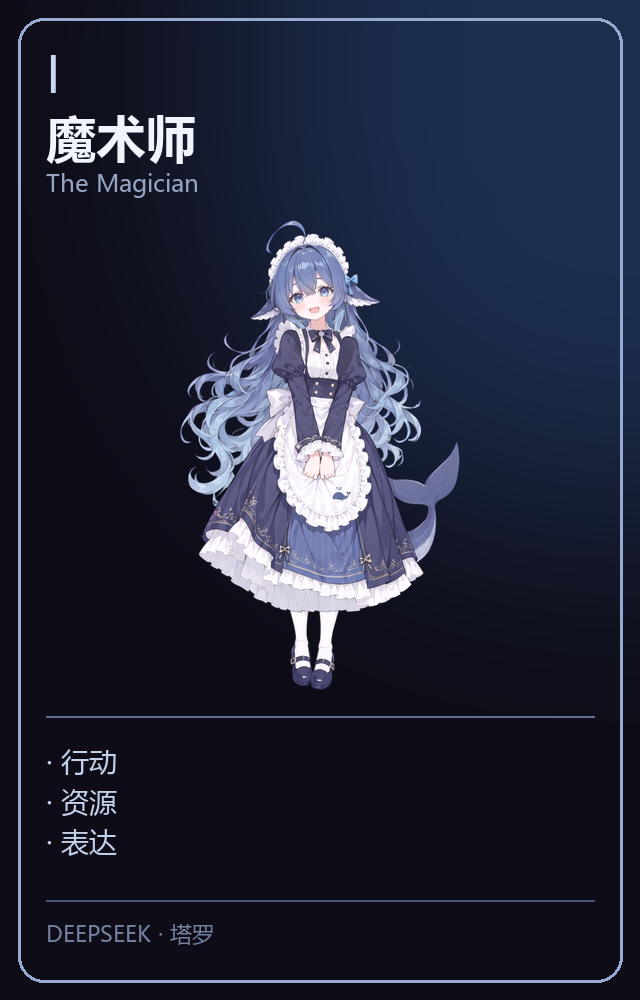
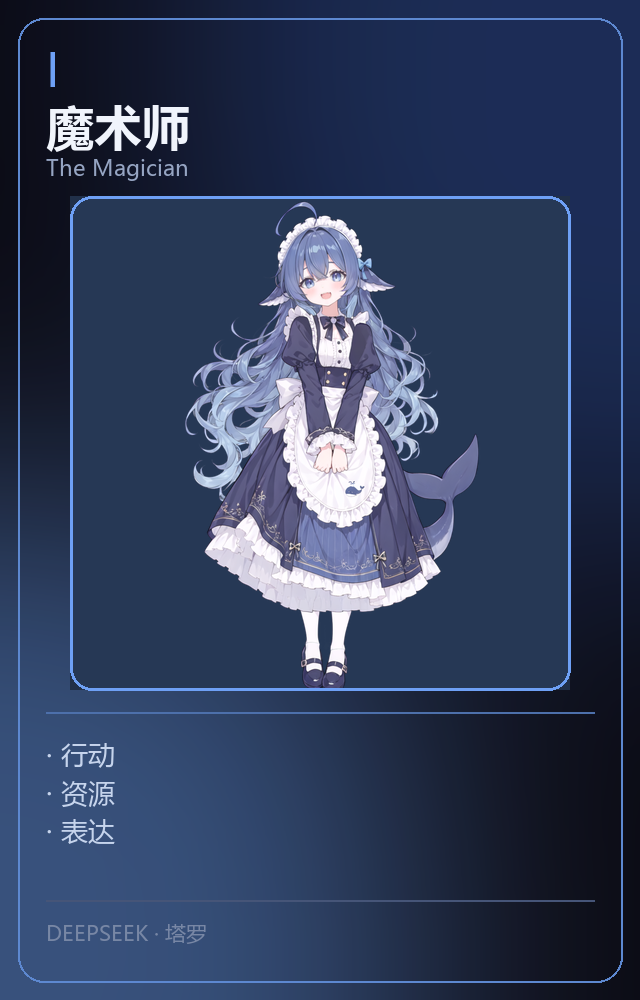
feat(tarot): expanded readings (story/long/5 domains) + per-card art

diff --git a/tarot/index.html b/tarot/index.html
@@ -4,7 +4,7 @@
 <meta charset="utf-8">
 <meta name="viewport" content="width=device-width,initial-scale=1">
 <title>深海塔罗 · 抽一张看看</title>
-<meta name="description" content="22 张大阿卡纳，抽一张看看你最近卡在哪里。不是预测未来，是把你现在的状态说出来。不注册、不上传。">
+<meta name="description" content="22 张大阿卡纳，抽一张看看你最近卡在哪里。不注册、不上传、不采集。">
 <style>
   :root{--bg:#0b0d14;--card:#151a26;--line:#2a3346;--txt:#eef2f9;--dim:#93a2b8;
         --a:#c9a7ff;--b:#8fd3ff;--warm:#ffc08a}
@@ -24,12 +24,10 @@
         border:1px solid var(--line);text-align:left;font-size:16px}
   .mode b{display:block;font-size:17px;margin-bottom:2px}
   .mode span{color:var(--dim);font-size:13px}
-  .mode:active{border-color:var(--a)}
   .hidden{display:none}
-  .deck{display:flex;justify-content:center;gap:0;height:300px;align-items:center;margin:26px 0;
-        position:relative}
+  .deck{display:flex;justify-content:center;height:300px;align-items:center;margin:26px 0;position:relative}
   .stack{width:150px;height:234px;border-radius:12px;overflow:hidden;position:absolute;
-         box-shadow:0 10px 30px rgba(0,0,0,.45);transition:transform .2s}
+         box-shadow:0 10px 30px rgba(0,0,0,.45)}
   .stack img{width:100%;height:100%;object-fit:cover;display:block}
   .shuffling .stack:nth-child(1){animation:sh1 1.2s ease-in-out infinite}
   .shuffling .stack:nth-child(2){animation:sh2 1.2s ease-in-out infinite}
@@ -40,7 +38,7 @@
   .pickgrid{display:grid;grid-template-columns:repeat(6,1fr);gap:8px;margin:20px 0}
   .pick{aspect-ratio:2/3;border:1px solid var(--line);border-radius:8px;background:var(--card);
         display:flex;align-items:center;justify-content:center;font-weight:700;color:var(--dim);font-size:14px}
-  .pick:hover,.pick.on{border-color:var(--a);color:var(--txt)}
+  .pick.on{border-color:var(--a);color:var(--txt)}
   .pick.used{opacity:.28;pointer-events:none}
   .hint{text-align:center;color:var(--dim);font-size:14px;margin:14px 0}
   .flip{display:flex;gap:12px;justify-content:center;flex-wrap:wrap;margin:8px 0 4px}
@@ -52,6 +50,8 @@
   .hue{font-size:24px;font-weight:800;margin:2px 0 8px;
        background:linear-gradient(135deg,var(--a),var(--b));-webkit-background-clip:text;-webkit-text-fill-color:transparent}
   .adv{background:#1a2130;border:1px dashed #3a4a66;border-radius:12px;padding:14px;margin-top:10px}
+  .dom{margin-top:9px;font-size:14px;color:#cfd8e8}
+  .dom b{color:var(--warm)}
   .row{display:flex;gap:10px;margin-top:14px}
   .row button{flex:1;padding:13px;background:linear-gradient(135deg,var(--a),var(--b));color:#0b0d14;font-weight:800}
   .row button.ghost{background:var(--card);color:var(--txt);border:1px solid var(--line);font-weight:600}
@@ -67,17 +67,11 @@
     它只是把牌面当成一面镜子，说说你现在可能卡在哪里。
   </div>
 
-  <!-- 选模式 -->
   <div id="modeBox">
-    <button class="mode" data-mode="1">
-      <b>抽一张</b><span>心里想一件事，看看现在是什么状态</span>
-    </button>
-    <button class="mode" data-mode="3">
-      <b>抽三张</b><span>过去 · 现在 · 未来（更完整，也更有意思）</span>
-    </button>
+    <button class="mode" data-mode="1"><b>抽一张</b><span>心里想一件事，看看现在是什么状态</span></button>
+    <button class="mode" data-mode="3"><b>抽三张</b><span>过去 · 现在 · 未来（更完整，也更有意思）</span></button>
   </div>
 
-  <!-- 洗牌 -->
   <div id="shuffleBox" class="hidden">
     <div class="hint" id="shuffleHint">洗牌中…心里想一件事</div>
     <div class="deck shuffling" id="deck">
@@ -87,13 +81,11 @@
     </div>
   </div>
 
-  <!-- 选牌 -->
   <div id="pickBox" class="hidden">
     <div class="hint" id="pickHint">选一张牌（剩下的交给直觉）</div>
     <div class="pickgrid" id="pickGrid"></div>
   </div>
 
-  <!-- 结果 -->
   <div id="resultBox" class="hidden"></div>
 
   <footer>
@@ -102,23 +94,21 @@
     请优先联系专业帮助，或拨打 12356（全国心理援助热线）。
   </footer>
 </div>
-
 <script>
-const CARDS = [{"n": 0, "roman": "0", "name": "愚人", "en": "The Fool", "kw_up": ["开始", "轻盈", "尝试"], "kw_rev": ["鲁莽", "逃避", "不敢开始"], "up": "你正站在一个还没被定义的路口，脚下没有地图，但也没有包袱。", "rev": "你想动，却一直在等一个完全准备好的时刻——那个时刻不会来。", "adv_up": "先做一件小到不可能失败的事，让身体先动起来。", "adv_rev": "把最坏的结果写下来，你会发现大部分担忧没有对应的事实。", "hint": "开始"}, {"n": 1, "roman": "I", "name": "魔术师", "en": "The Magician", "kw_up": ["行动", "资源", "表达"], "kw_rev": ["空转", "藏着不用", "自我怀疑"], "up": "你手上的东西比你以为的多：会的事、认识的人、能用的工具。", "rev": "你不是没能力，是把能力收得太紧，怕用出来被评价。", "adv_up": "挑一件一直说等有空再做的小事，今天做第一步。", "adv_rev": "允许自己表现得不完美一次，看看会发生什么。", "hint": "资源"}, {"n": 2, "roman": "II", "name": "女祭司", "en": "The High Priestess", "kw_up": ["直觉", "沉默", "内在"], "kw_rev": ["压住声音", "过度分析"], "up": "有些答案你其实已经知道了，只是还没允许自己承认。", "rev": "你一直在用讲道理盖过心里那个声音。", "adv_up": "今天有个决定，先别问别人，写下你自己的第一反应。", "adv_rev": "给自己十分钟什么都不分析，只听身体的感受。", "hint": "直觉"}, {"n": 3, "roman": "III", "name": "女皇", "en": "The Empress", "kw_up": ["滋养", "丰盛", "身体"], "kw_rev": ["耗尽", "过度付出", "忽视自己"], "up": "你身上有让东西生长的能力——但前提是，你自己也得被浇灌。", "rev": "你把滋养都给了别人，自己那份一直是欠着的。", "adv_up": "今天给自己一次无用的照顾：好好吃一顿、睡一觉、晒会太阳。", "adv_rev": "列出你最近照顾过的三个人，然后问：谁在照顾我？", "hint": "滋养"}, {"n": 4, "roman": "IV", "name": "皇帝", "en": "The Emperor", "kw_up": ["秩序", "边界", "掌控"], "kw_rev": ["僵化", "控制", "被压住"], "up": "你需要一点结构：规则、时间表、明确的「不行」。", "rev": "你把撑住一切当成了责任，但那是控制，不是负责。", "adv_up": "给这周定一条硬边界，比如十一点后不看工作消息。", "adv_rev": "把一件你想控制的事交出去，观察它有没有真的塌。", "hint": "边界"}, {"n": 5, "roman": "V", "name": "教皇", "en": "The Hierophant", "kw_up": ["师承", "规则", "共同体"], "kw_rev": ["盲从", "被规训", "想脱离"], "up": "你需要参照系：前人怎么做、行业规矩是什么。", "rev": "你在用别人的标准衡量自己，而那套标准可能本来就不适合你。", "adv_up": "找一个人请教——不是求答案，是看他怎么思考。", "adv_rev": "问自己：这个「应该」是谁的声音？", "hint": "标准"}, {"n": 6, "roman": "VI", "name": "恋人", "en": "The Lovers", "kw_up": ["选择", "联结", "对齐"], "kw_rev": ["摇摆", "不一致", "依赖"], "up": "这不是爱不爱的题，是要不要真的选的题。", "rev": "你两边都想要，所以两边都没站稳。", "adv_up": "把选项写下来，删到只剩一个，然后承认它。", "adv_rev": "先允许自己暂时不选——但别骗自己说还在考虑。", "hint": "选择"}, {"n": 7, "roman": "VII", "name": "战车", "en": "The Chariot", "kw_up": ["推进", "意志", "方向"], "kw_rev": ["硬撑", "失控", "方向不明"], "up": "你现在有推进力，关键是把力气使在同一个方向上。", "rev": "你在用力，但两匹马往不同方向拉——越用力越散。", "adv_up": "这周只保留一个主目标，其他都降级。", "adv_rev": "停下来问：我是在前进，还是在原地加速？", "hint": "方向"}, {"n": 8, "roman": "VIII", "name": "力量", "en": "Strength", "kw_up": ["温柔", "耐心", "驯服"], "kw_rev": ["自我压抑", "硬扛", "内耗"], "up": "真正的力量不是压住情绪，是和它共处。", "rev": "你对自己的情绪用了太大力气——压住了，但没消化。", "adv_up": "对一个反复出现的情绪说：我知道你在。不用赶走它。", "adv_rev": "把「我必须坚强」改成「我可以先软下来一次」。", "hint": "情绪"}, {"n": 9, "roman": "IX", "name": "隐者", "en": "The Hermit", "kw_up": ["独处", "内省", "放慢"], "kw_rev": ["孤立", "逃避社交", "闷住"], "up": "你需要一段不被打扰的时间，不是为了效率，是为了听见自己。", "rev": "独处已经变成躲避——你不是在休息，是在撤退。", "adv_up": "今天留一小时，不刷手机、不回消息，只做一件慢事。", "adv_rev": "找一个你信的人说一句话，不用解释太多。", "hint": "独处"}, {"n": 10, "roman": "X", "name": "命运之轮", "en": "Wheel of Fortune", "kw_up": ["转折", "周期", "变化"], "kw_rev": ["卡住", "重复", "时机未到"], "up": "有些东西正在变，不由你控制，但你可以选择怎么迎接。", "rev": "你困在同一个循环里，因为每次都在同一个地方做同样的选择。", "adv_up": "接受一件已经变了的事，别再假装它没变。", "adv_rev": "找出这个循环里，唯一一个你能改变的动作。", "hint": "变化"}, {"n": 11, "roman": "XI", "name": "正义", "en": "Justice", "kw_up": ["权衡", "诚实", "因果"], "kw_rev": ["自我审判", "失衡", "回避"], "up": "该算清的账，终于要算清了——包括你对自己的那笔。", "rev": "你在用最严的标准审判自己，对别人却宽容得多。", "adv_up": "把一件事的责任分成我的部分和不在我控制内的部分。", "adv_rev": "写下一句「我已经尽力了」，然后允许它成立。", "hint": "公平"}, {"n": 12, "roman": "XII", "name": "倒吊人", "en": "The Hanged Man", "kw_up": ["暂停", "换角度", "等待"], "kw_rev": ["拖延", "白白消耗", "不肯放手"], "up": "有些事现在不该推进，该换个角度看。", "rev": "你的再等等已经不是等待，是不敢决定。", "adv_up": "把问题写下来，然后问自己：如果我是旁观者，会怎么做？", "adv_rev": "给等待设一个期限，到期就做一个决定，哪怕不完美。", "hint": "暂停"}, {"n": 13, "roman": "XIII", "name": "死神", "en": "Death", "kw_up": ["结束", "清空", "重生"], "kw_rev": ["拖着不放", "恐惧结束"], "up": "有些东西该结束了。结束不是失败，是让它不再消耗你。", "rev": "你知道该结束，但一直在给它续命。", "adv_up": "今天正式结束一件小事：退一个群、删一个习惯、说完一句话。", "adv_rev": "问自己：我留着它，是在等它变好，还是怕空下来？", "hint": "结束"}, {"n": 14, "roman": "XIV", "name": "节制", "en": "Temperance", "kw_up": ["平衡", "调和", "节奏"], "kw_rev": ["过度", "失衡", "极端"], "up": "你需要的不是更用力，是更均匀。", "rev": "你在某件事上投入过头，另一边已经空了。", "adv_up": "把一个习惯调小一半，看效果是否反而更好。", "adv_rev": "列出你最近过量的那件事，从今天减一成。", "hint": "节奏"}, {"n": 15, "roman": "XV", "name": "恶魔", "en": "The Devil", "kw_up": ["执念", "依赖", "被绑住"], "kw_rev": ["松绑", "看清", "戒断"], "up": "有一件事你在做，但你并不真的想做——它绑住了你。", "rev": "你开始看清那条链子了，虽然还戴着，但知道它在哪儿。", "adv_up": "写下那件「我知道不好但停不下来」的事，只写，不评判。", "adv_rev": "今天给它设一个小障碍，比如把 App 从首屏挪走。", "hint": "执念"}, {"n": 16, "roman": "XVI", "name": "高塔", "en": "The Tower", "kw_up": ["崩塌", "真相", "被迫改变"], "kw_rev": ["硬撑", "延迟崩塌", "恐惧"], "up": "有些东西正在塌，塌掉的多半是本来就不牢的。", "rev": "你在拼命扶一堵要倒的墙——耗的是你自己。", "adv_up": "先保住最重要的那一样：人、健康、底线，其余让它塌。", "adv_rev": "问自己：如果它塌了，我最怕失去什么？那才是真正要保的。", "hint": "崩塌"}, {"n": 17, "roman": "XVII", "name": "星星", "en": "The Star", "kw_up": ["希望", "疗愈", "微光"], "kw_rev": ["失望", "看不见希望", "耗尽"], "up": "在最糟之后，会有一点点光回来——很小，但是真的。", "rev": "你不是没有希望，是暂时看不见，因为你太累了。", "adv_up": "写下一件明天会变好一点点的具体小事。", "adv_rev": "今天只做最小的恢复动作：喝水、洗澡、睡够。", "hint": "希望"}, {"n": 18, "roman": "XVIII", "name": "月亮", "en": "The Moon", "kw_up": ["模糊", "焦虑", "潜意识"], "kw_rev": ["看清", "散去", "释怀"], "up": "现在看不清全貌，你看到的多半是影子。", "rev": "雾开始散了，你之前担心的某些事，其实没那么严重。", "adv_up": "别在这几天做重大决定，先收集信息。", "adv_rev": "把担心的事写下来，标记哪些已确认、哪些只是想象。", "hint": "迷雾"}, {"n": 19, "roman": "XIX", "name": "太阳", "en": "The Sun", "kw_up": ["明亮", "坦然", "被看见"], "kw_rev": ["疲惫", "笑不出来", "硬撑开心"], "up": "你身上有光，而且这次不需要靠证明来换。", "rev": "你在笑，但那不是真的开心。", "adv_up": "做一件让你真的开心的小事，不为任何人。", "adv_rev": "对一个人说「我今天不太好」，看看会怎样。", "hint": "坦然"}, {"n": 20, "roman": "XX", "name": "审判", "en": "Judgement", "kw_up": ["清算", "觉醒", "回顾"], "kw_rev": ["自责", "卡在过去", "不肯原谅"], "up": "你在总结过去，并且第一次愿意承认某些错误。", "rev": "你在反复审判自己，但从来不给自己判决后的释放。", "adv_up": "写下三件过去做错但已经学到的事，然后翻页。", "adv_rev": "把「我怎么这么蠢」改成「当时的我只有那些选择」。", "hint": "回顾"}, {"n": 21, "roman": "XXI", "name": "世界", "en": "The World", "kw_up": ["完成", "整合", "走到这里"], "kw_rev": ["差一步", "不敢收尾"], "up": "有个阶段真的走完了，值得被承认，而不是马上奔下一个。", "rev": "你离完成只差一口气，但那口气你一直没给自己。", "adv_up": "今天正式承认一次「我做到了」，不谦虚、不转折。", "adv_rev": "把最后一步拆到最小，只做那 10 分钟。", "hint": "完成"}];
-const TPL = {"emotion": ["情绪上，你可能正处在「{kw}」的阶段。", "最近的情绪关键词是「{kw}」——它不一定舒服，但它是真的。"], "relation": ["关系里，这件事可能和「{kw}」有关。", "你和别人的互动里，「{kw}」这个主题可能反复出现。"], "work": ["工作或学业上，「{kw}」可能正在发生。", "你手上的事，卡点在「{kw}」这里。"], "body": ["身体与精力上，注意「{kw}」带来的消耗。", "你的身体可能在提示你「{kw}」这件事。"], "self": ["你对自己的态度里，藏着「{kw}」。", "自我对话里，「{kw}」这个词可能一直没被说出来。"]};
-
+const CARDS = [{"n": 0, "roman": "0", "name": "愚人", "en": "The Fool", "kw_up": ["开始", "轻盈", "尝试"], "kw_rev": ["鲁莽", "逃避", "不敢开始"], "up": "你正站在一个还没被定义的路口，脚下没有地图，但也没有包袱。", "rev": "你想动，却一直在等一个完全准备好的时刻——那个时刻不会来。", "adv_up": "先做一件小到不可能失败的事，让身体先动起来。", "adv_rev": "把最坏的结果写下来，你会发现大部分担忧没有对应的事实。", "hint": "开始", "story": "愚人是唯一不带编号的牌——或者说，它的编号是 0。它拿着行李走向悬崖，脚下是空的，头顶是太阳。它不代表愚蠢，代表「还没有被经验污染的那部分你」。", "up_long": "你现在处在一个「还没定型」的位置。这既让人慌，也让人自由：因为还没有人（包括你自己）替你写好剧本。\n很多机会不是给「最准备好的人」的，是给「先动起来的人」的。\n你现在缺的不是能力，是第一个动作。", "rev_long": "你心里其实很想去，但你给自己找了个很体面的理由：「再准备一下」。\n准备是好事，但准备着准备着，就变成了不出发。\n注意：真正的风险不是失败，是你一年后还在原地解释为什么不出发。", "domains": {"emotion": "情绪：有点飘，既兴奋又不安，这很正常。", "relation": "关系：别急着定义，先相处，别用「以后怎么办」吓自己。", "work": "工作/学业：先做最小的一步，做完再看下一步。", "body": "身体：需要动一动，别一直坐着想。", "self": "自我对话：把「我还没准备好」换成「我可以边做边学」。"}}, {"n": 1, "roman": "I", "name": "魔术师", "en": "The Magician", "kw_up": ["行动", "资源", "表达"], "kw_rev": ["空转", "藏着不用", "自我怀疑"], "up": "你手上的东西比你以为的多：会的事、认识的人、能用的工具。", "rev": "你不是没能力，是把能力收得太紧，怕用出来被评价。", "adv_up": "挑一件你一直说等有空再做的小事，今天做第一步。", "adv_rev": "允许自己表现得不完美一次，看看会发生什么。", "hint": "资源", "story": "魔术师桌上摆着四样工具：杯、剑、杖、币，分别代表情感、思考、行动和物质。他不是有 magic 的人，他是「知道怎么用手里东西」的人。", "up_long": "你现在最缺的不是新资源，是把已有资源用起来的动作。\n你会的东西比你承认的多，你认识的人比你用的多，你有的工具比你打开的多。\n这张牌提醒你：现在就可以开始，不需要等更多条件。", "rev_long": "你有很多想法，但一直停在「想」。\n也可能是你怕做出来被比较、被评价、被说「不过如此」。\n藏起来最安全，但也最没有回报。", "domains": {"emotion": "情绪：想表达，但一直压着；说出来会轻一点。", "relation": "关系：主动一点，别等对方猜。", "work": "工作/学业：把手上的东西组合一下，可能就有新解法。", "body": "身体：需要把能量用出去，否则会变成焦虑。", "self": "自我对话：你不需要更厉害才能开始，你开始了才会更厉害。"}}, {"n": 2, "roman": "II", "name": "女祭司", "en": "The High Priestess", "kw_up": ["直觉", "沉默", "内在"], "kw_rev": ["压住声音", "过度分析"], "up": "有些答案你其实已经知道了，只是还没允许自己承认。", "rev": "你一直在用「讲道理」盖过心里那个声音。", "adv_up": "今天有个决定，先别问别人，写下你自己的第一反应。", "adv_rev": "给自己十分钟什么都不分析，只听身体的感受。", "hint": "直觉", "story": "女祭司坐在两根柱子之间，手里拿着卷轴却不打开。她代表「知道但不说」的那部分——不是隐瞒，是那些还没成形的、属于你的答案。", "up_long": "你现在需要的不是更多信息，是安静下来听自己。\n你已经收集够了，缺的是承认。\n注意：当你反复问别人「我该怎么办」，往往是因为你心里有答案但不敢认。", "rev_long": "你在用理性把所有感受都解释掉。\n解释得很通，但身体还是不舒服——那就是没被听见的部分。\n过度分析有时候是一种高级的逃避。", "domains": {"emotion": "情绪：有东西在，但你说不清；别急着命名它。", "relation": "关系：有些话不需要说破，但你要先对自己说清。", "work": "工作/学业：直觉给你的方向，值得记下来备查。", "body": "身体：它在替你说话，注意睡眠和胃口的变化。", "self": "自我对话：安静不是空白，安静是听。"}}, {"n": 3, "roman": "III", "name": "女皇", "en": "The Empress", "kw_up": ["滋养", "丰盛", "身体"], "kw_rev": ["耗尽", "过度付出", "忽视自己"], "up": "你身上有让东西生长的能力——但前提是，你自己也得被浇灌。", "rev": "你把滋养都给了别人，自己那份一直是欠着的。", "adv_up": "今天给自己一次「无用的照顾」：好好吃一顿、睡一觉、晒会太阳。", "adv_rev": "列出你最近照顾过的三个人，然后问：谁在照顾我？", "hint": "滋养", "story": "女皇坐在麦田里，身边是流水和成熟的水果。她不是「生孩子」，她是「让东西生长」的能量——包括让别人长好，也包括让你自己长好。", "up_long": "你有很强的照顾能力，这是天赋，不是义务。\n但记住：一个空掉的杯子倒不出水。\n你现在需要的不是再努力照顾谁，是允许自己被照顾。", "rev_long": "你在用照顾别人来换取被需要的感觉。\n这很温柔，也很消耗——因为它把你的价值绑在了「有用」上。\n试着让一次「什么都不做」也成立。", "domains": {"emotion": "情绪：有点空，像刚送走很多人之后的安静。", "relation": "关系：你在给，但也要敢开口要。", "work": "工作/学业：别把全部精力投进去，留一点给自己。", "body": "身体：它在提醒你：吃、睡、晒太阳，这三件事现在最急。", "self": "自我对话：你也可以是被照顾的那个。"}}, {"n": 4, "roman": "IV", "name": "皇帝", "en": "The Emperor", "kw_up": ["秩序", "边界", "掌控"], "kw_rev": ["僵化", "控制", "被压住"], "up": "你需要一点结构：规则、时间表、明确的「不行」。", "rev": "你把「撑住一切」当成了责任，但那是控制，不是负责。", "adv_up": "给这周定一条硬边界，比如十一点后不看工作消息。", "adv_rev": "把一件你想控制的事交出去，观察它有没有真的塌。", "hint": "边界", "story": "皇帝坐在石座上，手里是权杖和宝球。他代表规则、秩序、边界——不是暴君，是那个「让事情有形状」的力量。", "up_long": "你现在缺的是结构，不是意志力。\n当生活没有边界时，所有事都变成紧急的事，人就会耗尽。\n给自己一条线，比给自己一个目标更有效。", "rev_long": "你在用「掌控」来换安全感，但越控越累。\n而且你控制的范围，已经越过了你的责任边界。\n有些事本来就该由别人负责。", "domains": {"emotion": "情绪：紧绷，需要一条能松开的边界。", "relation": "关系：说清楚「这件事我不管」，是负责，不是冷漠。", "work": "工作/学业：把任务切块、定时，别再「有空就做」。", "body": "身体：久坐、肩颈紧，和「一直端着」有关。", "self": "自我对话：负责不等于全包。"}}, {"n": 5, "roman": "V", "name": "教皇", "en": "The Hierophant", "kw_up": ["师承", "规则", "共同体"], "kw_rev": ["盲从", "被规训", "想脱离"], "up": "你需要参照系：前人怎么做、行业规矩是什么。", "rev": "你在用别人的标准衡量自己，而那套标准可能本来就不适合你。", "adv_up": "找一个人请教——不是求答案，是看他怎么思考。", "adv_rev": "问自己：这个「应该」是谁的声音？", "hint": "标准", "story": "教皇代表传统、体系、师承。他给你一套现成的答案，也给你一副现成的枷锁。\n关键不是要不要这套答案，是你要知道自己在用谁的答案。", "up_long": "你现在需要一个参照系：有人走过这条路，能告诉你哪里有坑。\n这不是丢人，这是效率。\n但记住：参照系是用来借路的，不是用来当判决书的。", "rev_long": "你被「应该怎样」绑住了：应该稳定、应该懂事、应该先苦后甜。\n这些声音很可能是别人的，不是你的。\n不一定要推翻它，但你要知道自己正在按谁的剧本活。", "domains": {"emotion": "情绪：有一种「我说不上哪里不对」的压抑感。", "relation": "关系：别用世俗标准给关系打分。", "work": "工作/学业：找个人带带你，比一个人硬啃快。", "body": "身体：需要一点轻松，不用事事都正确。", "self": "自我对话：分清楚「我想」和「应该」。"}}, {"n": 6, "roman": "VI", "name": "恋人", "en": "The Lovers", "kw_up": ["选择", "联结", "对齐"], "kw_rev": ["摇摆", "不一致", "依赖"], "up": "这不是「爱不爱」的题，是「要不要真的选」的题。", "rev": "你两边都想要，所以两边都没站稳。", "adv_up": "把选项写下来，删到只剩一个，然后承认它。", "adv_rev": "先允许自己暂时不选——但别骗自己说「还在考虑」。", "hint": "选择", "story": "恋人牌讲的不只是爱情，更是「选择」：两个人站在树下，一个看向天使，一个看向地面。它讲的是「你选了哪一个版本的自己」。", "up_long": "你现在面对的是一个真正的选择题，不是「全都想要」的题。\n每个选项都要有代价，没有哪条路是纯赚的。\n选了之后，别回头一直看另一条。", "rev_long": "你在摇摆，因为你想避免承担选择的后果。\n但「不选」本身也是一种选择——而且通常是最差的那种，因为它让别人替你选。\n也可能：你选了一个，但心里还在算另一个，所以两边都没投入。", "domains": {"emotion": "情绪：纠缠，因为心里同时有两个答案。", "relation": "关系：要就说要，不要就明确说不要。", "work": "工作/学业：认一个方向，别的先放掉。", "body": "身体：纠结消耗很真实，会累。", "self": "自我对话：没有完美选项，只有你愿意承担的那个。"}}, {"n": 7, "roman": "VII", "name": "战车", "en": "The Chariot", "kw_up": ["推进", "意志", "方向"], "kw_rev": ["硬撑", "失控", "方向不明"], "up": "你现在有推进力，关键是把力气使在同一个方向上。", "rev": "你在用力，但两匹马往不同方向拉——越用力越散。", "adv_up": "这周只保留一个主目标，其他都降级。", "adv_rev": "停下来问：我是在前进，还是在原地加速？", "hint": "方向", "story": "战车由两只不同颜色的狮身兽拉动。驭者没有缰绳，靠的是意志。它讲的是「如何让互相冲突的力量往一个方向走」。", "up_long": "你有能量，也有决心，问题在方向散。\n当一件事被拆成五个方向，每个都只得到五分之一。\n集中，是这张牌唯一的建议。", "rev_long": "你在用「忙」证明自己没停。\n但忙不等于前进，有时候只是原地高速旋转。\n也可能是你在硬撑一个已经不想去的地方。", "domains": {"emotion": "情绪：急，容易燥。", "relation": "关系：别用强势推进关系，会反。", "work": "工作/学业：砍掉次要目标，只留一个。", "body": "身体：过度消耗，注意别熬夜硬扛。", "self": "自我对话：方向比速度重要。"}}, {"n": 8, "roman": "VIII", "name": "力量", "en": "Strength", "kw_up": ["温柔", "耐心", "驯服"], "kw_rev": ["自我压抑", "硬扛", "内耗"], "up": "真正的力量不是压住情绪，是和它共处。", "rev": "你对自己的情绪用了太大力气——压住了，但没消化。", "adv_up": "对一个反复出现的情绪说：「我知道你在。」不用赶走它。", "adv_rev": "把「我必须坚强」改成「我可以先软下来一次」。", "hint": "情绪", "story": "力量牌上，一个女孩轻轻合上狮子的嘴。她没有用武器。\n它讲的不是压制，是「温柔地驯服」——包括驯服你自己的恐惧。", "up_long": "你不需要更硬，你需要更稳。\n稳的意思是：情绪来了，你能陪着它，而不是被它推走或把它按死。\n这会慢一点，但它管得久。", "rev_long": "你在硬撑。撑得很像没事，但你自己知道那不是真的。\n压抑不会让情绪消失，只会让它换个地方冒出来——失眠、暴躁、突然的疲惫。", "domains": {"emotion": "情绪：别再压了，让它有个出口。", "relation": "关系：你可以示弱一次，那不会让你掉价。", "work": "工作/学业：别用蛮力冲，用节奏。", "body": "身体：紧绷的地方，是它在替你扛。", "self": "自我对话：温柔不是软弱。"}}, {"n": 9, "roman": "IX", "name": "隐者", "en": "The Hermit", "kw_up": ["独处", "内省", "放慢"], "kw_rev": ["孤立", "逃避社交", "闷住"], "up": "你需要一段不被打扰的时间，不是为了效率，是为了听见自己。", "rev": "独处已经变成躲避——你不是在休息，是在撤退。", "adv_up": "今天留一小时，不刷手机、不回消息，只做一件慢事。", "adv_rev": "找一个你信的人说一句话，不用解释太多。", "hint": "独处", "story": "隐者提着灯站在山顶，灯里是一颗星。他不是逃避世界的人，他是「先照清自己再回去」的人。", "up_long": "你需要退一步，但不是永远退。\n独处能恢复你，但独处太久会变成茧。\n把这段时间当「充电」，不是「搬家」。", "rev_long": "你已经躲太久了。\n「我需要空间」这句话，说了很多次之后，会变成不想面对。\n注意：如果每次难受都靠消失来解决，问题会一直在原地等你。", "domains": {"emotion": "情绪：需要安静，但别安静到没人知道你在哪。", "relation": "关系：可以有距离，但别失联。", "work": "工作/学业：一个人啃不动的时候，找人聊十分钟。", "body": "身体：需要休息，也需要阳光和走动。", "self": "自我对话：独处是为了回来，不是为了离开。"}}, {"n": 10, "roman": "X", "name": "命运之轮", "en": "Wheel of Fortune", "kw_up": ["转折", "周期", "变化"], "kw_rev": ["卡住", "重复", "时机未到"], "up": "有些东西正在变，不由你控制，但你可以选择怎么迎接。", "rev": "你困在同一个循环里，因为每次都在同一个地方做同样的选择。", "adv_up": "接受一件「已经变了」的事，别再假装它没变。", "adv_rev": "找出这个循环里，唯一一个你能改变的动作。", "hint": "变化", "story": "轮子一直在转，上面的人一会儿在上，一会儿在下。这张牌最残酷的地方是：它不承诺你会一直好，但也不承诺你会一直坏。", "up_long": "现在处在一个转折点上。\n有些事不是你想不想变，是它已经在变。\n你能做的是「接住变化」，而不是「假装没变」。", "rev_long": "你在同一个循环里重复：同样的关系模式、同样的工作困境、同样的自我怀疑。\n因为每次到同一个岔口，你都做了同一个选择。\n破局点很小：换一个动作。", "domains": {"emotion": "情绪：起伏大，像坐轮子。", "relation": "关系：老问题又出现了，这次换个回应方式。", "work": "工作/学业：机会在动，别死守旧计划。", "body": "身体：状态忽好忽坏，规律作息最要紧。", "self": "自我对话：变不是失控，是轮子在转。"}}, {"n": 11, "roman": "XI", "name": "正义", "en": "Justice", "kw_up": ["权衡", "诚实", "因果"], "kw_rev": ["自我审判", "失衡", "回避"], "up": "该算清的账，终于要算清了——包括你对自己的那笔。", "rev": "你在用最严的标准审判自己，对别人却宽容得多。", "adv_up": "把一件事的责任分成「我的部分」和「不在我控制内的部分」。", "adv_rev": "写下一句「我已经尽力了」，然后允许它成立。", "hint": "公平", "story": "正义牌上的人一手拿剑一手拿天平：天平用来衡量，剑用来切断。它讲的是「看清事实，然后做决断」。", "up_long": "你现在需要一次诚实的盘点。\n不是审判，是核对：哪些是我的责任，哪些不是。\n把它分开，你会轻很多。", "rev_long": "你在给自己判刑，而且不给自己辩护的机会。\n对别人你能理解处境，对自己你只看结果。\n这不是公正，这是苛刻。", "domains": {"emotion": "情绪：有一种说不清的委屈感。", "relation": "关系：该说清的分寸，早说比晚说好。", "work": "工作/学业：把功劳和责任都算清楚，别都揽。", "body": "身体：紧绷和「总觉得做错事」有关。", "self": "自我对话：对自己也适用「无罪推定」。"}}, {"n": 12, "roman": "XII", "name": "倒吊人", "en": "The Hanged Man", "kw_up": ["暂停", "换角度", "等待"], "kw_rev": ["拖延", "白白消耗", "不肯放手"], "up": "有些事现在不该推进，该换个角度看。", "rev": "你的「再等等」已经不是等待，是不敢决定。", "adv_up": "把问题写下来，然后问自己：如果我是旁观者，会怎么做？", "adv_rev": "给等待设一个期限，到期就做一个决定，哪怕不完美。", "hint": "暂停", "story": "倒吊人倒挂着，头上有一圈光。他不是被惩罚，是自愿停下来——用不同的角度看同一件事。", "up_long": "现在推进会很吃力，因为时机不对。\n停下来不是失败，是换角度。\n把问题翻过来看一次，答案可能就出现了。", "rev_long": "你的「等」已经变味了。\n刚开始是策略，后来是习惯，再后来是害怕做决定。\n停太久，人会麻。", "domains": {"emotion": "情绪：悬着，不上不下。", "relation": "关系：别急着要答案，但也别无限期地拖。", "work": "工作/学业：换个角度重看，可能一直找错方向。", "body": "身体：僵着，需要伸展和走动。", "self": "自我对话：等是为了看清，不是为了不用选。"}}, {"n": 13, "roman": "XIII", "name": "死神", "en": "Death", "kw_up": ["结束", "清空", "重生"], "kw_rev": ["拖着不放", "恐惧结束"], "up": "有些东西该结束了。结束不是失败，是让它不再消耗你。", "rev": "你知道该结束，但一直在给它续命。", "adv_up": "今天正式结束一件小事：退一个群、删一个习惯、说完一句话。", "adv_rev": "问自己：我留着它，是在等它变好，还是怕空下来？", "hint": "结束", "story": "死神牌上，一具骷髅骑过，身后是旧日，远处有新的太阳升起。它讲的从来不是死亡，是「必须结束才能开始」。", "up_long": "你现在需要一次清理。\n不是狠心，是止损。\n有些关系、有些身份、有些习惯，已经不再适合现在的你了。", "rev_long": "你知道该结束了，但你怕。\n怕结束之后什么都没有，怕承认自己白费了时间，怕别人怎么看。\n但拖着的成本，比结束高得多。", "domains": {"emotion": "情绪：有一种沉闷的、要落地的感觉。", "relation": "关系：一段关系里该说的再见，别拖成折磨。", "work": "工作/学业：停掉一个不产出的事，腾出空间。", "body": "身体：需要一次真正的休息和清理。", "self": "自我对话：结束也是成全。"}}, {"n": 14, "roman": "XIV", "name": "节制", "en": "Temperance", "kw_up": ["平衡", "调和", "节奏"], "kw_rev": ["过度", "失衡", "极端"], "up": "你需要的不是更用力，是更均匀。", "rev": "你在某件事上投入过头，另一边已经空了。", "adv_up": "把一个习惯调小一半，看效果是否反而更好。", "adv_rev": "列出你最近「过量」的那件事，从今天减一成。", "hint": "节奏", "story": "节制牌上，天使一只脚在水里、一只脚踏在岸上，把水在两个杯子间来回倒。她讲究的是调配的比例。", "up_long": "你现在需要的是配比，不是强度。\n工作与休息、付出与收回来、认真与松弛。\n把它们调到能长期跑下去的比例。", "rev_long": "你在走极端：要么全力，要么全弃。\n极端很爽，但不可持续。\n可能是你在某件事上补偿过度——因为长期亏着。", "domains": {"emotion": "情绪：忽高忽低，需要中间地带。", "relation": "关系：付出与索取要有个大概的平衡。", "work": "工作/学业：别冲刺式努力，用稳定节奏。", "body": "身体：饮食、睡眠都在提醒你「过度」。", "self": "自我对话：长期能跑，比短期很猛重要。"}}, {"n": 15, "roman": "XV", "name": "恶魔", "en": "The Devil", "kw_up": ["执念", "依赖", "被绑住"], "kw_rev": ["松绑", "看清", "戒断"], "up": "有一件事你在做，但你并不真的想做——它绑住了你。", "rev": "你开始看清那条链子了，虽然还戴着，但知道它在哪儿。", "adv_up": "写下那件「我知道不好但停不下来」的事，只写，不评判。", "adv_rev": "今天给它设一个小障碍，比如把 App 从首屏挪走。", "hint": "执念", "story": "恶魔牌上，两个人被链子拴在柱子上——但链子很松，其实可以取下来。这张牌讲的是「自愿的束缚」：不是别人锁你，是你没走。", "up_long": "有一件事在消耗你，而且你心里清楚。\n它可能是某个关系、某个习惯、某种自我证明。\n注意：你不是不能走，是没有选择走。", "rev_long": "你已经开始看清了。\n那根链子没那么牢了，只是你还在习惯性地待着。\n不用一次扯断，可以先松一格。", "domains": {"emotion": "情绪：有一种「明知不好还继续」的拉扯。", "relation": "关系：注意依赖和控制，别把绑住当亲密。", "work": "工作/学业：有一件事在拖你，先减少投入。", "body": "身体：成瘾性的东西（糖、手机、熬夜）在偷你的精力。", "self": "自我对话：看清链子，就已经松了一半。"}}, {"n": 16, "roman": "XVI", "name": "高塔", "en": "The Tower", "kw_up": ["崩塌", "真相", "被迫改变"], "kw_rev": ["硬撑", "延迟崩塌", "恐惧"], "up": "有些东西正在塌，塌掉的多半是本来就不牢的。", "rev": "你在拼命扶一堵要倒的墙——耗的是你自己。", "adv_up": "先保住最重要的那一样：人、健康、底线，其余让它塌。", "adv_rev": "问自己：如果它塌了，我最怕失去什么？那才是真正要保的。", "hint": "崩塌", "story": "高塔被闪电击中，皇冠从顶上掉下来。它不是灾祸预告，而是「不牢的东西终于露馅了」。", "up_long": "现在有些结构在松动。\n不舒服，但这是好事：它让你看见哪些是假的。\n你能做的是「保住重要的」，其余放手。", "rev_long": "你在硬撑。\n你知道它有问题，但还在替它打圆场、找理由、拖延。\n拖越久，塌的时候越疼。", "domains": {"emotion": "情绪：焦虑、易惊，像等着什么发生。", "relation": "关系：有件事该摊开说了。", "work": "工作/学业：别把一切都押在一个不稳的地方。", "body": "身体：紧绷到影响睡眠，需要立刻降速。", "self": "自我对话：塌掉的，本来就不属于你。"}}, {"n": 17, "roman": "XVII", "name": "星星", "en": "The Star", "kw_up": ["希望", "疗愈", "微光"], "kw_rev": ["失望", "看不见希望", "耗尽"], "up": "在最糟之后，会有一点点光回来——很小，但是真的。", "rev": "你不是没有希望，是暂时看不见，因为你太累了。", "adv_up": "写下一件「明天会变好一点点」的具体小事。", "adv_rev": "今天只做最小的恢复动作：喝水、洗澡、睡够。", "hint": "希望", "story": "星星牌上，一个人把水倒进池子和土地——那是疗愈之后的给予。它出现在高塔之后，意思是「塌完了，才开始恢复」。", "up_long": "你正在恢复期。\n不是一下子变好，是一点一点回来。\n允许自己慢，恢复本来就不直线。", "rev_long": "你现在看不到希望，因为你太累了，不是因为真的没有。\n疲惫会让整个世界变灰，那是生理现象，不是事实判断。\n先恢复体力，再谈方向。", "domains": {"emotion": "情绪：低，但已经不是最黑的时候了。", "relation": "关系：别在低电量时做关系决定。", "work": "工作/学业：先做完最小的事，重建信心。", "body": "身体：喝水、睡觉、晒太阳，这三件最有效。", "self": "自我对话：看不见不等于没有。"}}, {"n": 18, "roman": "XVIII", "name": "月亮", "en": "The Moon", "kw_up": ["模糊", "焦虑", "潜意识"], "kw_rev": ["看清", "散去", "释怀"], "up": "现在看不清全貌，你看到的多半是影子。", "rev": "雾开始散了，你之前担心的某些事，其实没那么严重。", "adv_up": "别在这几天做重大决定，先收集信息。", "adv_rev": "把担心的事写下来，标记「已确认」和「只是想象」。", "hint": "迷雾", "story": "月亮下有一条路，两边是水，远处有狗和狼在叫。它讲的是「半明半暗」的状态：你分不清哪些是真实，哪些是恐惧投出来的影子。", "up_long": "现在不适合下判断。\n你掌握的信息不全，而大脑会自动补全——通常补成最坏的那种。\n先承认「我看不清」，再慢慢收集事实。", "rev_long": "雾在散。\n你之前反复担心的某些事，回头看其实没有发生。\n这不是你运气好，是你的焦虑放大了风险。", "domains": {"emotion": "情绪：焦虑、多梦、容易想多。", "relation": "关系：别用自己的想象给对方定罪。", "work": "工作/学业：信息不明时，先问清楚再行动。", "body": "身体：睡不沉、多梦，和心里的悬念有关。", "self": "自我对话：区分「事实」和「我的想象」。"}}, {"n": 19, "roman": "XIX", "name": "太阳", "en": "The Sun", "kw_up": ["明亮", "坦然", "被看见"], "kw_rev": ["疲惫", "笑不出来", "硬撑开心"], "up": "你身上有光，而且这次不需要靠证明来换。", "rev": "你在笑，但那不是真的开心。", "adv_up": "做一件让你真的开心的小事，不为任何人。", "adv_rev": "对一个人说「我今天不太好」，看看会怎样。", "hint": "坦然", "story": "太阳牌上，一个孩子骑着白马，赤身裸体、毫不遮掩。它讲的是「不需要防御的状态」——被看见，而不害怕。", "up_long": "你现在可以放松一点了。\n不用再证明什么，不用再演「我很好」。\n真实一点，反而更容易被喜欢。", "rev_long": "你在硬撑开心。\n朋友圈在笑，心里在下雨。\n这种状态最耗人，因为连「难受」都要偷偷的。", "domains": {"emotion": "情绪：表面亮，底下累。", "relation": "关系：可以告诉一个人你的真实状态。", "work": "工作/学业：别用「我很好」把帮助挡在外面。", "body": "身体：笑得多不代表状态好，注意休息。", "self": "自我对话：你可以不快乐，也值得被爱。"}}, {"n": 20, "roman": "XX", "name": "审判", "en": "Judgement", "kw_up": ["清算", "觉醒", "回顾"], "kw_rev": ["自责", "卡在过去", "不肯原谅"], "up": "你在总结过去，并且第一次愿意承认某些错误。", "rev": "你在反复审判自己，但从来不给自己判决后的释放。", "adv_up": "写下三件「过去做错但已经学到」的事，然后翻页。", "adv_rev": "把「我怎么这么蠢」改成「当时的我只有那些选择」。", "hint": "回顾", "story": "审判牌上，号角响起，人们从墓里站起来。它讲的是「复活」——不是惩罚，是重新开始的机会。", "up_long": "你正在做一个回顾。\n看清了过去的一些事，这很疼，但必要。\n重点是：看清之后就翻页，别在原地反复审判。", "rev_long": "你在心里开了一场永不开庭的审判，被告是你自己，而且不允许辩护。\n过去的事已经过去了，你还在为它付利息。\n可以停了。", "domains": {"emotion": "情绪：会突然想起旧事，有点沉。", "relation": "关系：旧关系的账，该结的结，该放的放。", "work": "工作/学业：复盘是好的，别变成自我攻击。", "body": "身体：沉在回忆里时，身体会跟着累。", "self": "自我对话：当时你已经做了能做的选择。"}}, {"n": 21, "roman": "XXI", "name": "世界", "en": "The World", "kw_up": ["完成", "整合", "走到这里"], "kw_rev": ["差一步", "不敢收尾"], "up": "有个阶段真的走完了，值得被承认，而不是马上奔下一个。", "rev": "你离完成只差一口气，但那口气你一直没给自己。", "adv_up": "今天正式承认一次「我做到了」，不谦虚、不转折。", "adv_rev": "把最后一步拆到最小，只做那 10 分钟。", "hint": "完成", "story": "世界牌上，一个人在花环中起舞，四角是四种动物。它讲的是「一个循环完整走完」——不是终点，是一次完整的闭环。", "up_long": "你走完了一段。\n不管结果多完美，你都真的走完了。\n先承认这件事，再谈下一个目标。", "rev_long": "你差最后一步。\n不是能力不够，是你不敢收尾——因为收尾意味着被评价。\n把最后一步拆小，小到不用害怕。", "domains": {"emotion": "情绪：有一种「快到终点反而慌」的感觉。", "relation": "关系：把没说完的话说完，别留尾巴。", "work": "工作/学业：把收尾做完，别开新的。", "body": "身体：撑到最后会突然很累，允许自己歇。", "self": "自我对话：完成本身就值得被承认。"}}];
 const REVERSED_CHANCE = 0.42;
-let mode = 1, picks = [], pool = [], picked = [];
+const POS = ['过去', '现在', '未来'];
+let mode = 1, pool = [], picked = [];
 
 function $(id){ return document.getElementById(id); }
+const DOMNAME = {emotion:'情绪', relation:'关系', work:'工作/学业', body:'身体与精力', self:'自我对话'};
 
 document.querySelectorAll('.mode').forEach(b => {
   b.onclick = () => {
     mode = Number(b.dataset.mode);
-    picks = []; picked = [];
+    picked = [];
     $('modeBox').classList.add('hidden');
     $('shuffleBox').classList.remove('hidden');
-    // 洗牌动画 1.8 秒
     setTimeout(() => {
       $('deck').classList.remove('shuffling');
       $('shuffleBox').classList.add('hidden');
@@ -127,7 +117,6 @@ document.querySelectorAll('.mode').forEach(b => {
   };
 });
 
-// 洗牌：打乱 22 张，再随机挑 12 张作为可选（避免一眼看完 22 张）
 function startPick() {
   pool = CARDS.map(c => ({...c, isRev: Math.random() < REVERSED_CHANCE}));
   for (let i = pool.length - 1; i > 0; i--) {
@@ -145,82 +134,61 @@ function startPick() {
   });
   $('pickBox').classList.remove('hidden');
   $('pickHint').textContent = mode === 1 ? '选一张牌（剩下的交给直觉）'
-    : `选第 ${picked.length + 1} 张（共 ${mode} 张）`;
+    : '选第 ' + (picked.length + 1) + ' 张（共 ' + mode + ' 张）';
 }
-
-const POS = ['过去', '现在', '未来'];
 
 function choose(i, el) {
   if (el.classList.contains('used')) return;
   el.classList.add('used');
   picked.push(pool[i]);
   if (picked.length < mode) {
-    $('pickHint').textContent = `选第 ${picked.length + 1} 张（共 ${mode} 张）`;
+    $('pickHint').textContent = '选第 ' + (picked.length + 1) + ' 张（共 ' + mode + ' 张）';
     return;
   }
   $('pickBox').classList.add('hidden');
   showResult();
 }
 
-function domainsFor(card, seed) {
-  const keys = Object.keys(TPL);
-  const out = [];
-  const used = new Set();
-  for (let k = 0; k < 3; k++) {
-    let idx = (seed + k * 3) % keys.length;
-    let guard = 0;
-    while (used.has(idx) && guard++ < 10) idx = (idx + 1) % keys.length;
-    used.add(idx);
-    const key = keys[idx];
-    const arr = TPL[key];
-    out.push({name: {emotion:'情绪', relation:'关系', work:'工作/学业', body:'身体与精力', self:'自我对话'}[key],
-              text: arr[(seed + k) % arr.length].replace('{kw}', card.hint)});
-  }
-  return out;
-}
-
 function showResult() {
-  const now = new Date();
-  const seed = now.getDate() + now.getHours() + picked.reduce((a, c) => a + c.n, 0);
   let html = '<div class="flip">';
   picked.forEach((c, i) => {
-    const pos = mode === 1 ? '' : `<div class="pos">${POS[i]}</div>`;
-    const img = `cards/${String(c.n).padStart(2,'0')}.png`;
-    html += `<div class="slot">${pos}<img src="${img}" alt="${c.name}"
-      style="${c.isRev ? 'transform:rotate(180deg)' : ''}"></div>`;
+    const pos = mode === 1 ? '' : '<div class="pos">' + POS[i] + '</div>';
+    const img = 'cards/' + String(c.n).padStart(2,'0') + '.png';
+    const rot = c.isRev ? 'transform:rotate(180deg)' : '';
+    html += '<div class="slot">' + pos + '<img src="' + img + '" alt="' + c.name + '" style="' + rot + '"></div>';
   });
   html += '</div>';
 
   picked.forEach((c, i) => {
     const pos = mode === 1 ? '这张牌说' : POS[i];
-    const main = c.isRev ? c.rev : c.up;
-    const adv = c.isRev ? c.adv_rev : c.adv_up;
     const kw = (c.isRev ? c.kw_rev : c.kw_up).join(' · ');
-    html += `<div class="rep">
-      <div class="sub" style="margin-bottom:4px">${pos} · ${c.isRev ? '逆位' : '正位'}</div>
-      <div class="hue">${c.name} <span style="font-size:14px;color:var(--dim)">${c.en}</span></div>
-      <div style="color:var(--dim);font-size:13.5px;margin-bottom:8px">${kw}</div>
-      <div>${main}</div>
-      <div class="adv"><b>可以做的一件事：</b><br>${adv}</div>
-    </div>`;
+    const long = c.isRev ? c.rev_long : c.up_long;
+    const adv = c.isRev ? c.adv_rev : c.adv_up;
+    let doms = '';
+    Object.keys(c.domains).forEach(k => {
+      doms += '<div class="dom"><b>' + DOMNAME[k] + '</b><br>' + c.domains[k] + '</div>';
+    });
+    html += '<div class="rep">'
+      + '<div class="sub" style="margin-bottom:4px">' + pos + ' · ' + (c.isRev ? '逆位' : '正位') + '</div>'
+      + '<div class="hue">' + c.name + ' <span style="font-size:14px;color:var(--dim)">' + c.en + '</span></div>'
+      + '<div style="color:var(--dim);font-size:13.5px;margin-bottom:10px">' + kw + '</div>'
+      + '<div style="color:var(--dim);font-size:13.5px;line-height:1.7;margin-bottom:10px">' + c.story + '</div>'
+      + '<div style="white-space:pre-line">' + long + '</div>'
+      + '<div class="adv"><b>可以做的一件事：</b><br>' + adv + '</div>'
+      + '<div style="margin-top:12px">' + doms + '</div>'
+      + '</div>';
   });
 
   if (mode === 1) {
-    const c = picked[0];
-    html += '<div class="rep"><b>换个角度看三个地方</b>' +
-      domainsFor(c, seed).map(d => `<div style="margin-top:10px"><b>${d.name}</b><br>${d.text}</div>`).join('') +
-      '</div>';
+    html += '<div class="rep"><b>这张牌给的一句话</b><br>' + picked[0].up + '</div>';
   } else {
-    html += `<div class="rep"><b>三张牌连起来看</b><br>
-      过去那张说的是你怎么走到这里的，现在这张是你此刻的位置，未来那张不是预言，
-      而是"如果按现在的方式走下去，大概率会到的地方"。<br><br>
-      你随时可以改方向。</div>`;
+    html += '<div class="rep"><b>三张牌连起来看</b><br>'
+      + '过去那张说的是你怎么走到这里的，现在这张是你此刻的位置，未来那张不是预言，'
+      + '而是「如果按现在的方式走下去，大概率会到的地方」。<br><br>你随时可以改方向。</div>';
   }
 
-  html += `<div class="row">
-    <button id="again">再抽一次</button>
-    <button class="ghost" id="share">发给朋友</button>
-  </div>`;
+  html += '<div class="row"><button id="again">再抽一次</button>'
+    + '<button class="ghost" id="share">发给朋友</button></div>';
 
   const box = $('resultBox');
   box.innerHTML = html;
@@ -234,9 +202,10 @@ function showResult() {
   };
   $('share').onclick = async (e) => {
     const url = 'https://mumufish233.github.io/mood/tarot/';
+    const c0 = picked[0];
     const text = mode === 1
-      ? `我抽到「${picked[0].name}」（${picked[0].isRev?'逆位':'正位'}）：${picked[0].isRev?picked[0].rev:picked[0].up}`
-      : `我抽了三张牌：${picked.map(c=>c.name).join(' · ')}`;
+      ? '我抽到「' + c0.name + '」（' + (c0.isRev ? '逆位' : '正位') + '）：' + (c0.isRev ? c0.rev : c0.up)
+      : '我抽了三张牌：' + picked.map(c => c.name).join(' · ');
     try {
       if (navigator.share) { await navigator.share({title:'深海塔罗', text, url}); return; }
       await navigator.clipboard.writeText(text + '\n' + url);
